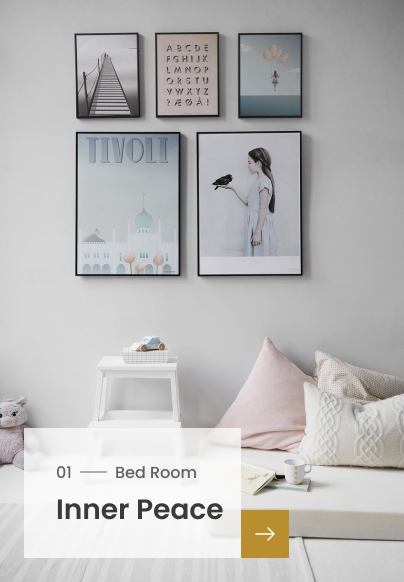
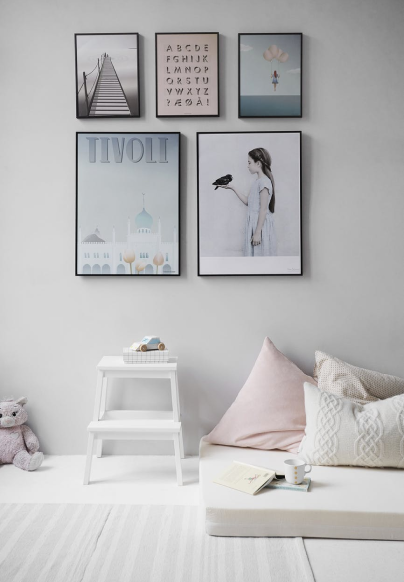
first commit

Changed region(s): [[0.0594, 0.7113, 0.7129, 0.9588]]

diff --git a/src/components/Hero.jsx b/src/components/Hero.jsx
@@ -1,0 +1,56 @@
+import { innerPeace } from '../assets/images';
+
+export default function Hero() {
+  return (
+    <>
+      <div className='bg-secondary grid grid-cols-3 px-10 py-10'>
+        <div className='flex flex-col gap-4 ml-24 py-[50%]'>
+          <div>
+            <h1 className='font-bold text-4xl text-slate-800'>
+              50 + Beautiful rooms inspiration
+            </h1>
+          </div>
+          <div>
+            <p>
+              Our designer already made a lot of beautiful prototipe of rooms
+              that inspire you
+            </p>
+          </div>
+          <div>
+            <button className='bg-primary border text-white font-semibold px-9 w-55'>
+              Explore More
+            </button>
+          </div>
+        </div>
+        <div className='flex justify-center relative'>
+          <div className='w-full'>
+            <img
+              src={innerPeace}
+              alt='Inner Peace'
+              className='h-[100%] w-[100%] aspect-auto'
+            />
+          </div>
+          <div className='absolute w-full pl-11 bottom-10 flex items-end'>
+            <div className='bg-white bg-opacity-45 py-20 px-5'>
+              <p>01 Bed Room</p>
+              <h1 className='text-4xl font-bold'>Inner Peace</h1>
+            </div>
+            <div className='bg-primary px-3 py-3 text-white text-2xl'>
+              &rarr;
+            </div>
+          </div>
+        </div>
+        <div className='flex justify-end'>
+          <div className='flex justify-center'>
+            <nav className='inline-flex space-x-2'>
+              <a
+                href='#'
+                className='w-3 h-3 flex items-center justify-center bg-primary rounded-full hover:bg-gray-300 ring-primary ring-opacity-50 ring-offset-8 ring-1'
+              ></a>
+            </nav>
+          </div>
+        </div>
+      </div>
+    </>
+  );
+}

diff --git a/src/pages/Home.jsx b/src/pages/Home.jsx
@@ -1,5 +1,6 @@
 import Banner from '../components/Banner';
 import Browse from '../components/Browse';
+import Hero from '../components/Hero';
 import Products from '../components/Products';
 
 export default function Home() {
@@ -13,6 +14,9 @@ export default function Home() {
       </section>
       <section className='w-[85%] mx-auto'>
         <Products />
+      </section>
+      <section className='w-full mx-auto'>
+        <Hero />
       </section>
     </>
   );

diff --git a/src/assets/images/index.js b/src/assets/images/index.js
@@ -11,6 +11,7 @@ import muggo from './img-5.png';
 import pingky from './img-6.png';
 import potty from './img-7.png';
 import leviosa from './chair.png';
+import innerPeace from './setup-1.png';
 
 export {
     Logo,
@@ -25,5 +26,6 @@ export {
     grifo,
     muggo,
     pingky,
-    potty
+    potty,
+    innerPeace
 }
